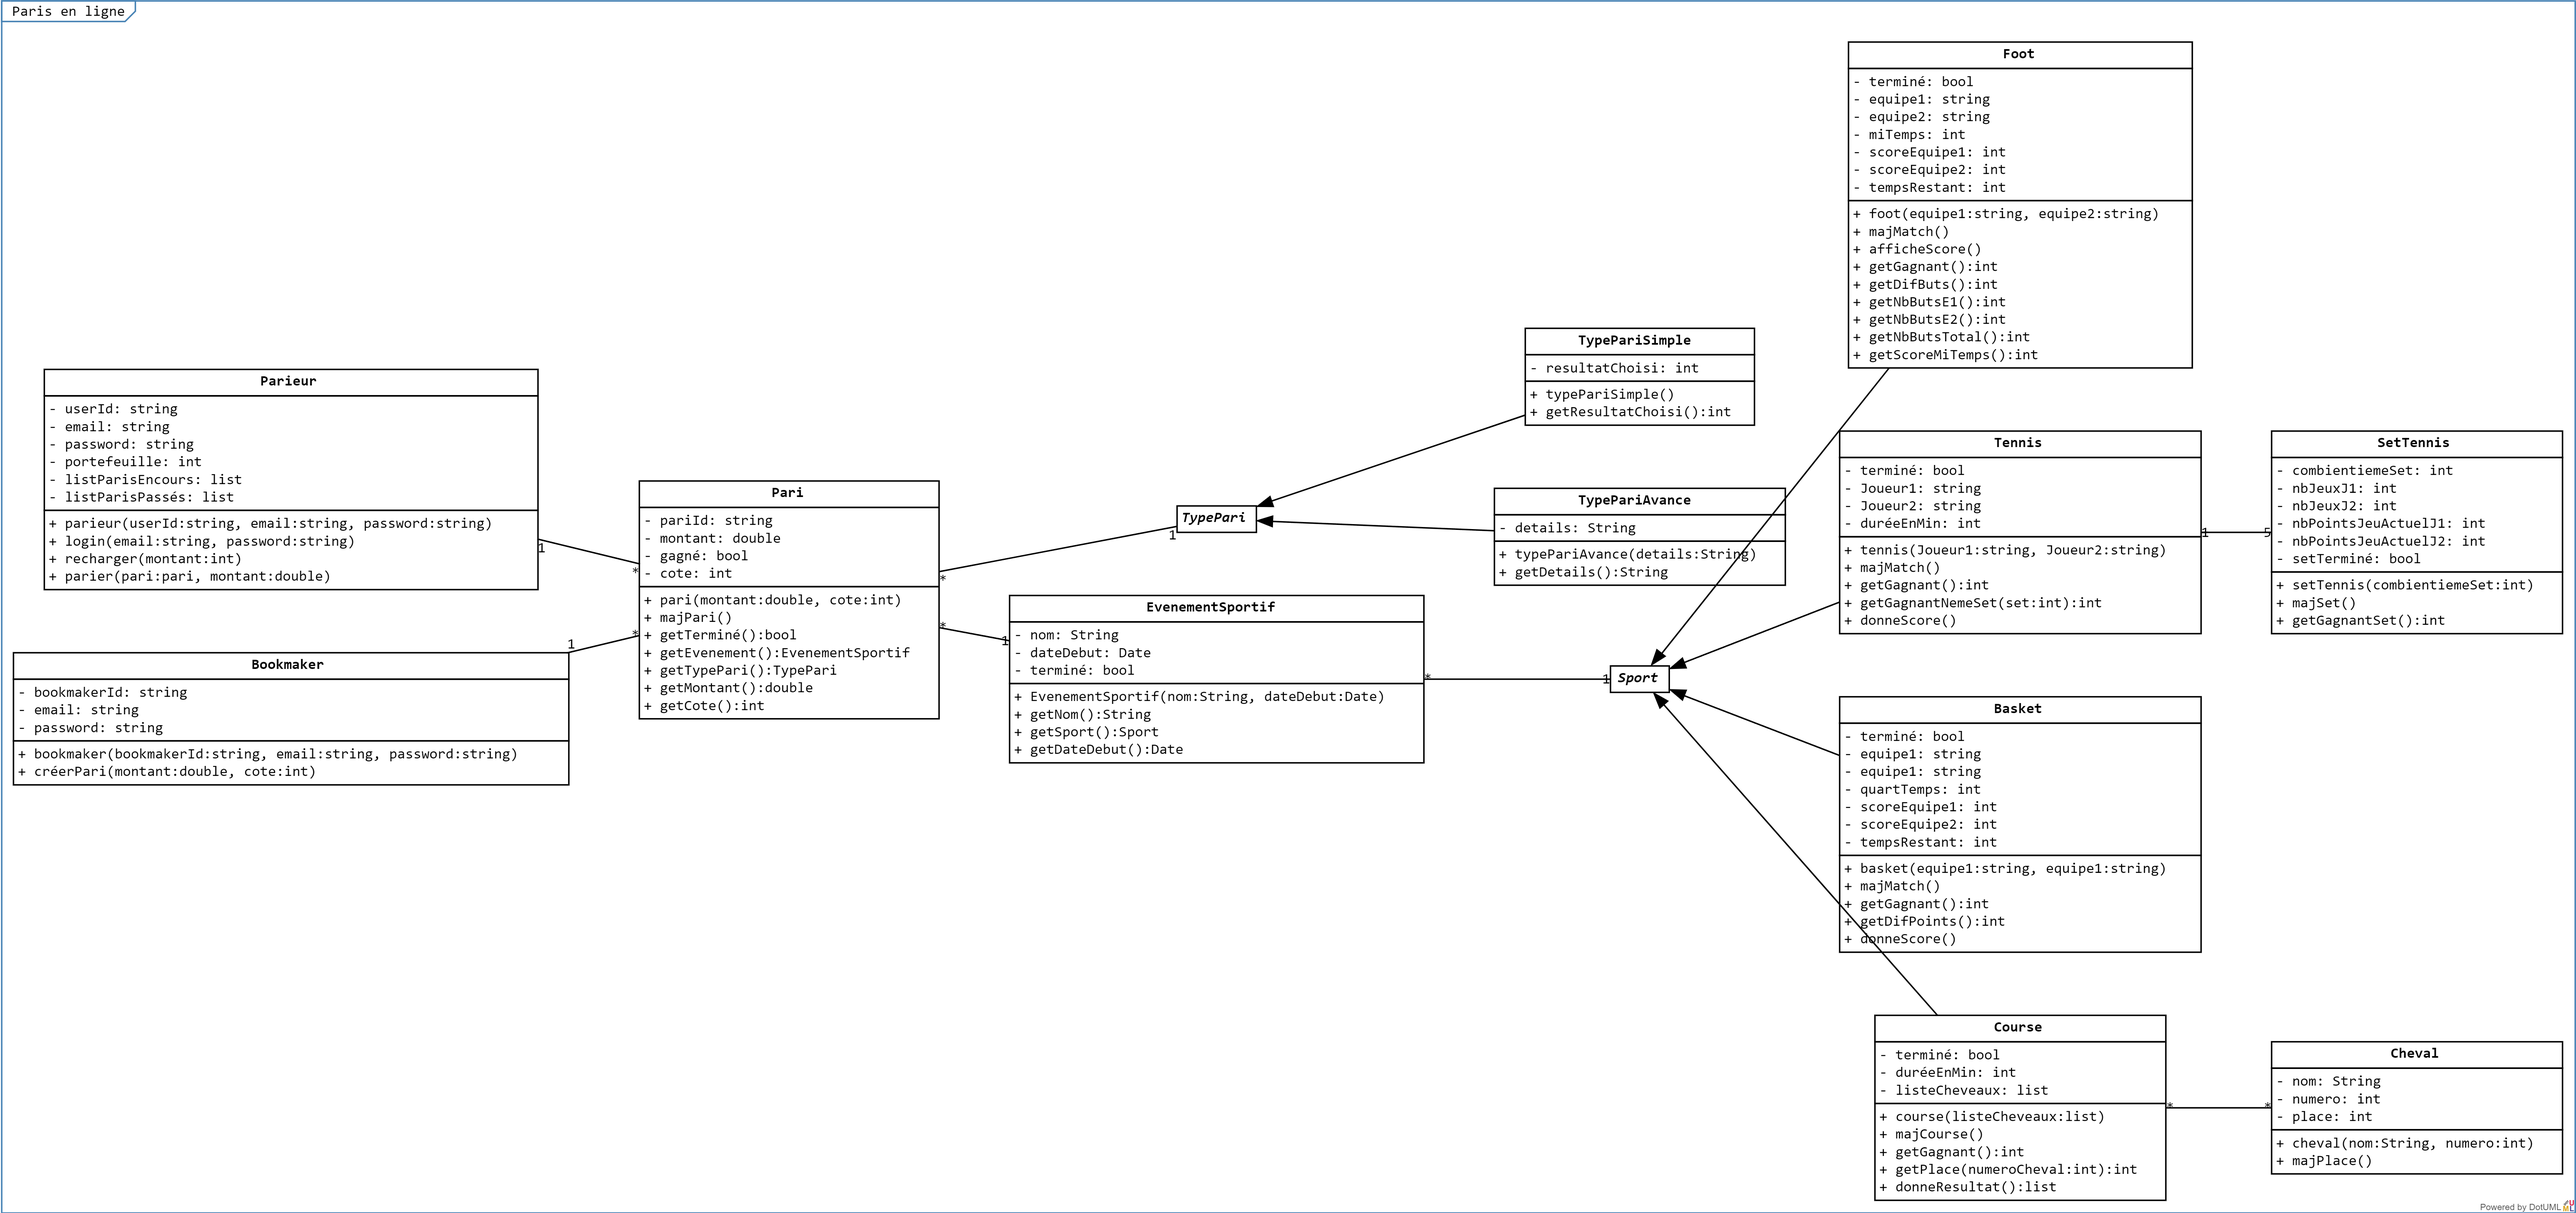
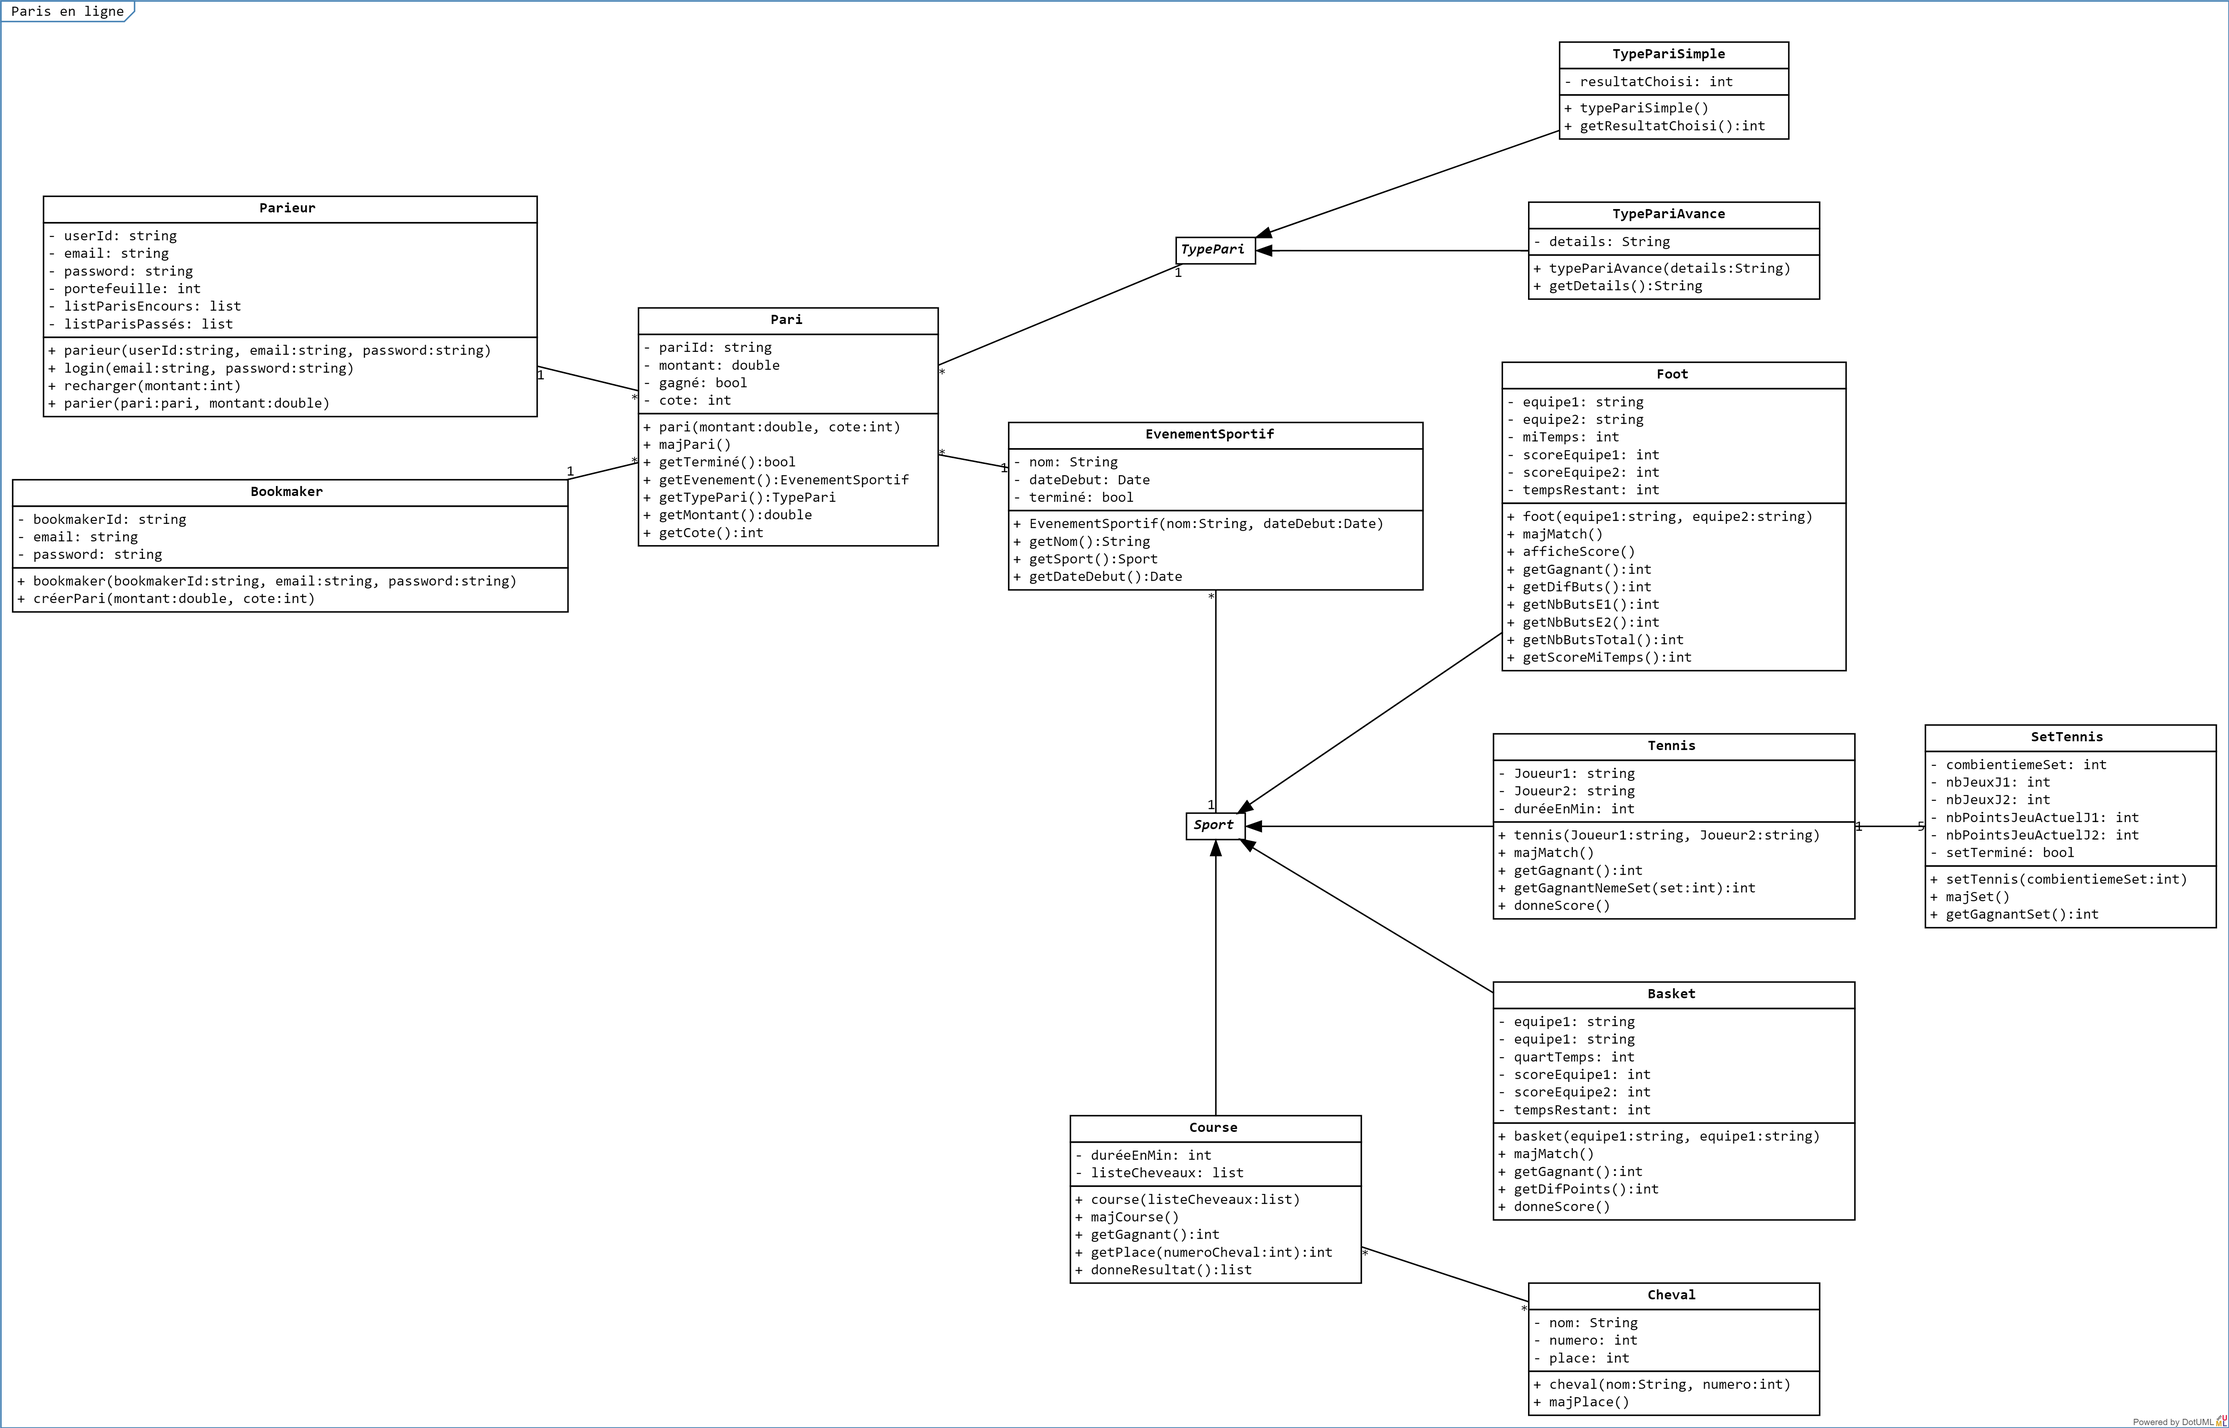
Modif diagramme classe

diff --git a/diagramme de classe/README.md b/diagramme de classe/README.md
@@ -20,7 +20,7 @@ Classes et leurs attributs :
 
 6. Sport : Classe abstraite représentant différents sports. Elle est spécialisée en plusieurs sous-classes telles que Foot, Tennis, Basket, et Course.
 
-7. SetTennis : Représente un ensemble de jeux dans un match de tennis. Il a un numéro de set, un nombre de jeux pour chaque joueur, un nombre de points pour le jeu actuel, et une indication si le set est terminé.
+7. SetTennis : Représente un ensemble de jeux dans un match de tennis. Il a un numéro de set, un nombre de jeux pour chaque joueur, un nombre de points pour le jeu actuel, et une indication si le set est terminé. Nous faisons le choix de créer une classe set afin de représenter le résultat exact du match au jeu près.
 
 8. Cheval : Représente un cheval dans une course hippique. Il a un nom, un numéro et une place dans la course.
 
